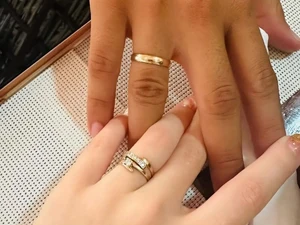
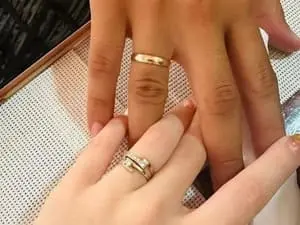
web optimizations

diff --git a/src/components/Landing/Hero.tsx b/src/components/Landing/Hero.tsx
@@ -17,10 +17,10 @@ export function Hero() {
           <div className="flex justify-center mb-4">
             <img
               src={logo}
-              width={400}
+              width={375}
               height={250}
               fetchPriority="high"
-              className="rounded-lg p-2 bg-black object-contain w-[400px] h-[250px] block"
+              className="rounded-lg p-2 bg-black object-contain w-[375px] h-[250px] block"
               alt="Frank Joyería Logo"
             />
           </div>

diff --git a/src/pages/About.tsx b/src/pages/About.tsx
@@ -35,7 +35,7 @@ export function About() {
               </p>
             </div>
             <div class="flex justify-center">
-              <img src={logo} alt="Taller de joyería" class="rounded-lg shadow-sm" width={300} height={300} loading="lazy" />
+              <img src={logo} alt="Taller de joyería" class="rounded-lg shadow-sm" width={375} height={250} loading="lazy" />
             </div>
           </div>
         </section>

diff --git a/src/components/LoginForm.tsx b/src/components/LoginForm.tsx
@@ -61,6 +61,7 @@ export function LoginForm() {
           <button
             type="submit"
             class="w-full bg-black text-white py-3 px-6 rounded-lg hover:bg-gray-800 transition-colors font-medium flex items-center justify-center"
+            aria-label="Iniciar sesión"
           >
             Iniciar Sesión
           </button>
